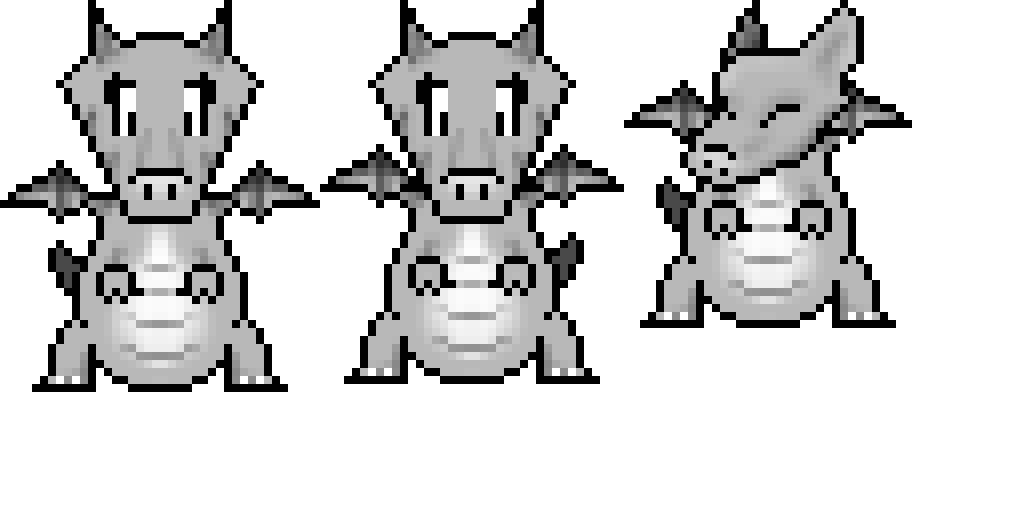
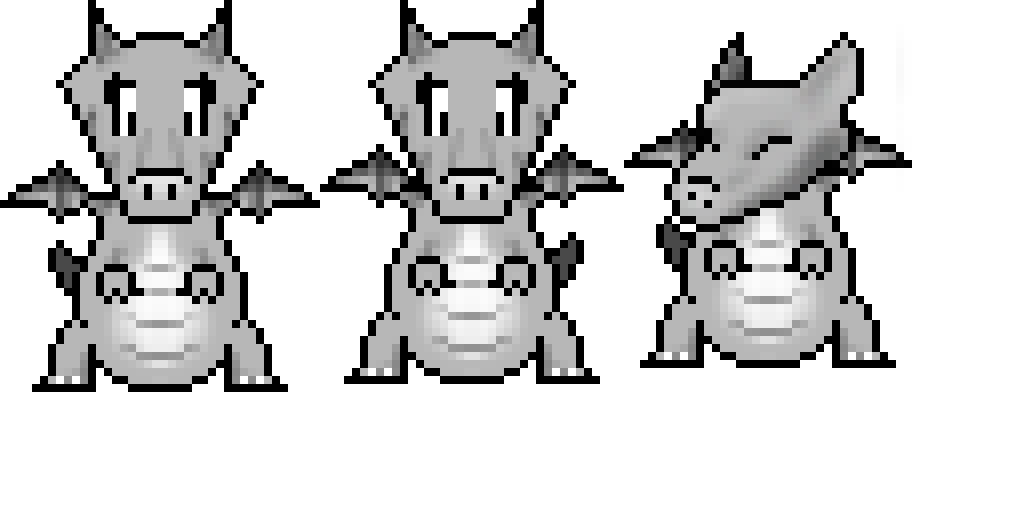
Made bigger poked dragon head

Changed region(s): [[0.5938, 0.0, 0.9062, 0.7188]]

diff --git a/Amigotchi/Amigotchi/HomeLayer.m b/Amigotchi/Amigotchi/HomeLayer.m
@@ -55,16 +55,16 @@ static NSString* kAppId = @"196872950351792";
         [self initApi];
         [self initFacebookButtons];
         
+        // add device dressing
+        CCSprite * screen = [[CCSprite alloc] initWithFile:@"screen.png"];
+        screen.position = ccp(size.width/2, size.height - MENU_HEIGHT - screen.contentSize.height/2);
+        [self addChild:screen z:DEVICE_LAYER];
+        
         // add a dragon
         AmigoPet * dragon = [[AmigoPet alloc] init];
         dragon.scale = .5;
-        dragon.position = ccp(size.width/2, size.height/2 + MENU_HEIGHT);
+        dragon.position = ccp(size.width/2, size.height - MENU_HEIGHT - screen.contentSize.height/2);
         [self addChild:dragon z:PET_LAYER];
-        
-        // add device dressing
-        CCSprite * screen = [[CCSprite alloc] initWithFile:@"screen.png"];
-        screen.position = dragon.position = ccp(size.width/2, size.height/2 + MENU_HEIGHT);
-        [self addChild:screen z:DEVICE_LAYER];
         
 
 	}
@@ -92,7 +92,7 @@ static NSString* kAppId = @"196872950351792";
     //position menu
     fbMenu.position = ccp(size.width * .5, size.height - facebookLoginButton.contentSize.height);
     
-    [self addChild:fbMenu];
+    [self addChild:fbMenu z:HUD_LAYER];
 }
 
 -(void)facebookLogin{

diff --git a/Amigotchi/Amigotchi/AmigoPet.m b/Amigotchi/Amigotchi/AmigoPet.m
@@ -34,6 +34,8 @@ CCAnimation * idleAnimation;
         CCSpriteFrameCache * cache = [CCSpriteFrameCache sharedSpriteFrameCache];
         [cache addSpriteFramesWithFile:@"dragon.plist"];
         
+        //[[CCSprite alloc] initWithSpriteFrame:@"NARDS"];
+        
         //Idle animation
         idleAnimation = [[CCAnimation alloc] initWithName:@"idle" delay:1.0/2];
         

diff --git a/Amigotchi/Amigotchi/HomeLayer.h b/Amigotchi/Amigotchi/HomeLayer.h
@@ -15,9 +15,11 @@
 #import "AmigoUser.h"
 #import "AmigoPet.h"
 
-#define MENU_HEIGHT 20
-#define PET_LAYER 5
+#define MENU_HEIGHT 50
+
 #define DEVICE_LAYER 3
+#define PET_LAYER 5
+#define HUD_LAYER 9
 
 // HomeLayer
 @interface HomeLayer : CCLayer<FBSessionDelegate>
